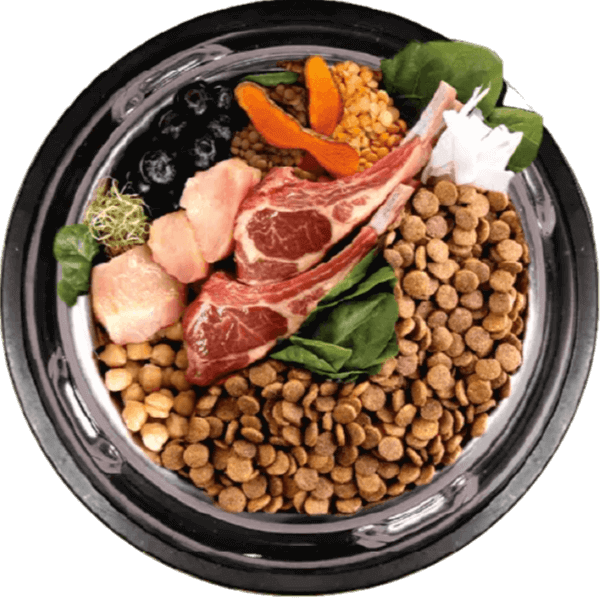
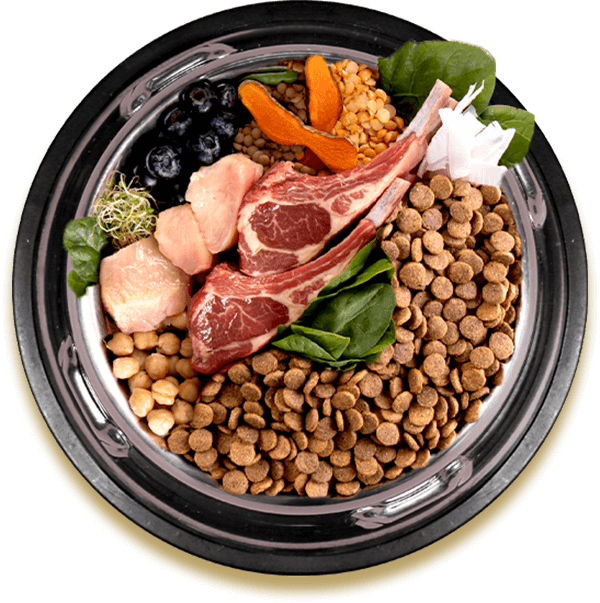
Adding bowl

diff --git a/src/slides/Slide.js b/src/slides/Slide.js
@@ -13,7 +13,7 @@ import { HbHeader, HbContainer, useBreakpoint } from "../visly";
 import LargeBG from '../assets/images/svg-bg-large.svg'
 import MidBG from '../assets/images/svg-bg-medium.svg'
 import SmallBG from '../assets/images/svg-bg-small.svg'
-import Bowl from '../assets/images/Bowl-optimized.png'
+import Bowl from '../assets/images/Bowl.png'
 
 const Slide = () => {
     const { slideModel } = useContext(SlideContext);
